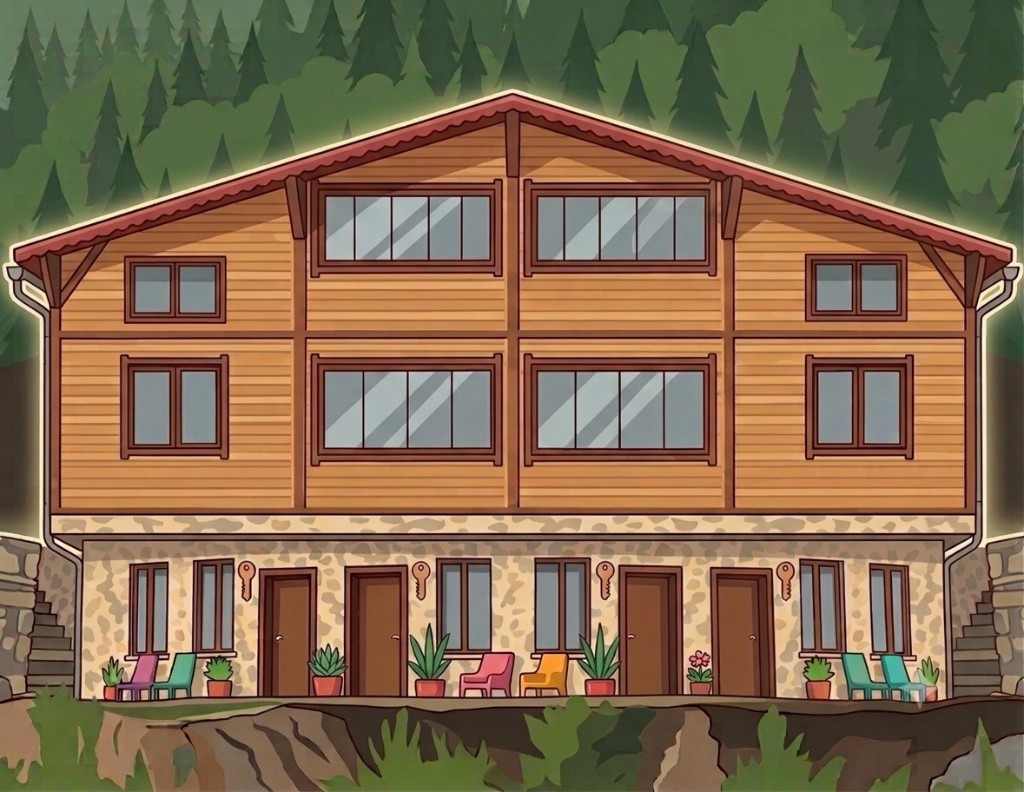
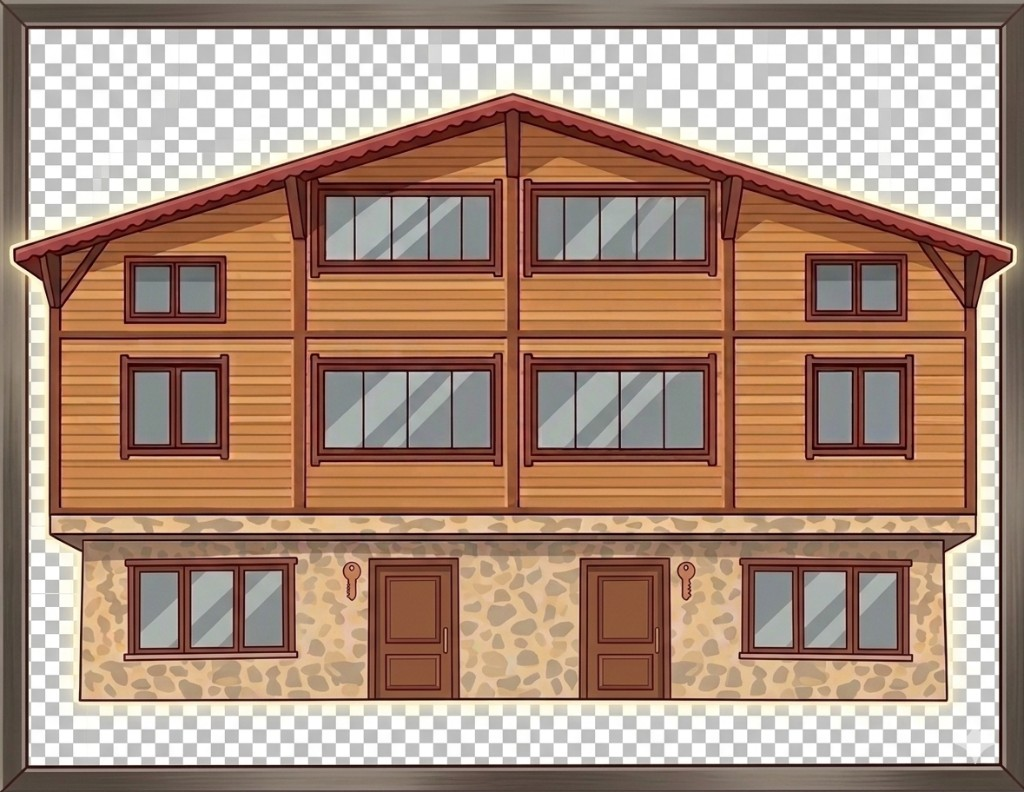
Yeni seffaf illustrasyon + cati kat polygon hotspot, orta/alt kat hizali dikdortgenler

diff --git a/js/bina.js b/js/bina.js
@@ -1,6 +1,7 @@
 /* =========================================================
    APARTIM — Bina (ana ekran)
-   Gercek illustrasyon arka plan + tiklanabilir 5 daire hotspot.
+   Seffaf illustrasyon arka plan + 5 daire hotspot.
+   Ust kat: cati hattini takip eden polygon (dikdortgen degil).
    ========================================================= */
 
 (function () {
@@ -8,90 +9,84 @@
 
   const wrap = () => document.getElementById("bina-svg-wrap");
 
-  // ViewBox illustrasyonun gercek piksel boyutuyla aynı (1024 x 792).
-  // Hotspot koordinatlari binanın gercek daire konumlarina hizali:
-  //   UST KAT     : x=80-940,  y=100-360  (ucgen + buyuk ortadakiler + yan kucukler)
-  //   ORTA SOL    : x=80-510,  y=365-545  (sol 2 buyuk pencere)
-  //   ORTA SAG    : x=514-940, y=365-545  (sag 2 buyuk pencere)
-  //   ALT SOL     : x=50-510,  y=550-735  (tas cephe sol, 2 kapi + pencereler)
-  //   ALT SAG     : x=514-985, y=550-735  (tas cephe sag, 2 kapi + pencereler)
+  // Koordinatlar 1024x792 illustrasyona gore (merkez x=512).
+  // Bina dis cerceve: ~x=96-928
   const SVG = `
 <svg class="bina-svg" viewBox="0 0 1024 792" xmlns="http://www.w3.org/2000/svg" aria-label="Apartım binası" preserveAspectRatio="xMidYMid meet">
   <defs>
-    <filter id="binaSg" x="-5%" y="-5%" width="110%" height="110%">
-      <feDropShadow dx="0" dy="14" stdDeviation="18" flood-opacity="0.55"/>
+    <filter id="binaSg" x="-8%" y="-8%" width="116%" height="116%">
+      <feDropShadow dx="0" dy="10" stdDeviation="12" flood-opacity="0.28"/>
     </filter>
     <filter id="noktaSg" x="-50%" y="-50%" width="200%" height="200%">
-      <feDropShadow dx="0" dy="3" stdDeviation="3" flood-opacity="0.45"/>
+      <feDropShadow dx="0" dy="2" stdDeviation="2.5" flood-opacity="0.4"/>
     </filter>
   </defs>
 
-  <!-- ILLUSTRASYON ARKA PLAN -->
-  <image href="icons/apart-illustrasyon.png" x="0" y="0" width="1024" height="792" filter="url(#binaSg)"/>
+  <image href="icons/apart-illustrasyon.png?v=20260616" x="0" y="0" width="1024" height="792" filter="url(#binaSg)"/>
 
-  <!-- =============== HOTSPOTLAR =============== -->
-  <!-- UST KAT (tek daire) -->
+  <!-- UST KAT — tek daire, cati ucgeni + alttaki ahşap bolum -->
   <g class="daire" data-daire-id="ust" tabindex="0" role="button" aria-label="Üst Kat dairesi">
-    <rect class="daire-bolge" x="80" y="100" width="860" height="260" rx="16"/>
-    <g class="daire-etiket-grup" transform="translate(512, 235)">
-      <rect x="-58" y="-22" width="116" height="40" rx="20" fill="rgba(20,15,10,0.85)"/>
+    <polygon class="daire-bolge"
+      points="512,54 928,172 928,346 96,346 96,172"/>
+    <g class="daire-etiket-grup" transform="translate(512, 228)">
+      <rect x="-58" y="-22" width="116" height="40" rx="20" fill="rgba(20,15,10,0.88)"/>
       <text class="daire-etiket" x="0" y="7" text-anchor="middle">ÜST KAT</text>
     </g>
     <g class="durum-grup" filter="url(#noktaSg)">
-      <circle cx="895" cy="138" r="22" fill="#fff" opacity="0.95"/>
-      <circle class="durum-nokta durum-nokta-bos-temiz" cx="895" cy="138" r="14"/>
+      <circle cx="892" cy="118" r="20" fill="#fff" opacity="0.96"/>
+      <circle class="durum-nokta durum-nokta-bos-temiz" cx="892" cy="118" r="13"/>
     </g>
   </g>
 
   <!-- ORTA SOL -->
   <g class="daire" data-daire-id="orta-sol" tabindex="0" role="button" aria-label="Orta Kat - Sol dairesi">
-    <rect class="daire-bolge" x="80" y="365" width="432" height="180" rx="16"/>
-    <g class="daire-etiket-grup" transform="translate(296, 458)">
-      <rect x="-62" y="-22" width="124" height="40" rx="20" fill="rgba(20,15,10,0.85)"/>
+    <rect class="daire-bolge" x="96" y="358" width="408" height="168" rx="4"/>
+    <g class="daire-etiket-grup" transform="translate(300, 442)">
+      <rect x="-62" y="-22" width="124" height="40" rx="20" fill="rgba(20,15,10,0.88)"/>
       <text class="daire-etiket" x="0" y="7" text-anchor="middle">ORTA SOL</text>
     </g>
     <g class="durum-grup" filter="url(#noktaSg)">
-      <circle cx="490" cy="395" r="22" fill="#fff" opacity="0.95"/>
-      <circle class="durum-nokta durum-nokta-bos-temiz" cx="490" cy="395" r="14"/>
+      <circle cx="488" cy="378" r="20" fill="#fff" opacity="0.96"/>
+      <circle class="durum-nokta durum-nokta-bos-temiz" cx="488" cy="378" r="13"/>
     </g>
   </g>
 
   <!-- ORTA SAG -->
   <g class="daire" data-daire-id="orta-sag" tabindex="0" role="button" aria-label="Orta Kat - Sağ dairesi">
-    <rect class="daire-bolge" x="514" y="365" width="426" height="180" rx="16"/>
-    <g class="daire-etiket-grup" transform="translate(727, 458)">
-      <rect x="-62" y="-22" width="124" height="40" rx="20" fill="rgba(20,15,10,0.85)"/>
+    <rect class="daire-bolge" x="520" y="358" width="408" height="168" rx="4"/>
+    <g class="daire-etiket-grup" transform="translate(724, 442)">
+      <rect x="-62" y="-22" width="124" height="40" rx="20" fill="rgba(20,15,10,0.88)"/>
       <text class="daire-etiket" x="0" y="7" text-anchor="middle">ORTA SAĞ</text>
     </g>
     <g class="durum-grup" filter="url(#noktaSg)">
-      <circle cx="918" cy="395" r="22" fill="#fff" opacity="0.95"/>
-      <circle class="durum-nokta durum-nokta-bos-temiz" cx="918" cy="395" r="14"/>
+      <circle cx="912" cy="378" r="20" fill="#fff" opacity="0.96"/>
+      <circle class="durum-nokta durum-nokta-bos-temiz" cx="912" cy="378" r="13"/>
     </g>
   </g>
 
-  <!-- ALT SOL (tas cephe) -->
+  <!-- ALT SOL -->
   <g class="daire" data-daire-id="alt-sol" tabindex="0" role="button" aria-label="Alt Kat - Sol dairesi">
-    <rect class="daire-bolge" x="50" y="550" width="462" height="185" rx="16"/>
-    <g class="daire-etiket-grup" transform="translate(281, 645)">
-      <rect x="-58" y="-22" width="116" height="40" rx="20" fill="rgba(20,15,10,0.85)"/>
+    <rect class="daire-bolge" x="96" y="536" width="408" height="168" rx="4"/>
+    <g class="daire-etiket-grup" transform="translate(300, 620)">
+      <rect x="-58" y="-22" width="116" height="40" rx="20" fill="rgba(20,15,10,0.88)"/>
       <text class="daire-etiket" x="0" y="7" text-anchor="middle">ALT SOL</text>
     </g>
     <g class="durum-grup" filter="url(#noktaSg)">
-      <circle cx="490" cy="580" r="22" fill="#fff" opacity="0.95"/>
-      <circle class="durum-nokta durum-nokta-bos-temiz" cx="490" cy="580" r="14"/>
+      <circle cx="488" cy="556" r="20" fill="#fff" opacity="0.96"/>
+      <circle class="durum-nokta durum-nokta-bos-temiz" cx="488" cy="556" r="13"/>
     </g>
   </g>
 
-  <!-- ALT SAG (tas cephe) -->
+  <!-- ALT SAG -->
   <g class="daire" data-daire-id="alt-sag" tabindex="0" role="button" aria-label="Alt Kat - Sağ dairesi">
-    <rect class="daire-bolge" x="514" y="550" width="470" height="185" rx="16"/>
-    <g class="daire-etiket-grup" transform="translate(748, 645)">
-      <rect x="-58" y="-22" width="116" height="40" rx="20" fill="rgba(20,15,10,0.85)"/>
+    <rect class="daire-bolge" x="520" y="536" width="408" height="168" rx="4"/>
+    <g class="daire-etiket-grup" transform="translate(724, 620)">
+      <rect x="-58" y="-22" width="116" height="40" rx="20" fill="rgba(20,15,10,0.88)"/>
       <text class="daire-etiket" x="0" y="7" text-anchor="middle">ALT SAĞ</text>
     </g>
     <g class="durum-grup" filter="url(#noktaSg)">
-      <circle cx="960" cy="580" r="22" fill="#fff" opacity="0.95"/>
-      <circle class="durum-nokta durum-nokta-bos-temiz" cx="960" cy="580" r="14"/>
+      <circle cx="912" cy="556" r="20" fill="#fff" opacity="0.96"/>
+      <circle class="durum-nokta durum-nokta-bos-temiz" cx="912" cy="556" r="13"/>
     </g>
   </g>
 </svg>`;

diff --git a/css/style.css b/css/style.css
@@ -361,7 +361,8 @@ html.theme-light {
 .bina-svg .daire-bolge {
   fill: rgba(255, 255, 255, 0);
   stroke: transparent;
-  stroke-width: 4;
+  stroke-width: 3;
+  stroke-linejoin: round;
   transition: stroke 180ms ease, fill 180ms ease;
   pointer-events: all;
 }

diff --git a/index.html b/index.html
@@ -341,7 +341,7 @@
   <script src="js/firebase.js?v=20260615"></script>
   <script src="js/auth.js?v=20260615"></script>
   <script src="js/db.js?v=20260615"></script>
-  <script src="js/bina.js?v=20260615g"></script>
+  <script src="js/bina.js?v=20260616"></script>
   <script src="js/takvim.js?v=20260615"></script>
   <script src="js/rezervasyon.js?v=20260615"></script>
   <script src="js/temizlik.js?v=20260615"></script>

diff --git a/sw.js b/sw.js
@@ -1,5 +1,5 @@
 /* Apartım — basit cache-first service worker */
-const CACHE_VERSION = "apartim-v7-20260615g";
+const CACHE_VERSION = "apartim-v8-20260616";
 const CORE_ASSETS = [
   "./",
   "./index.html",